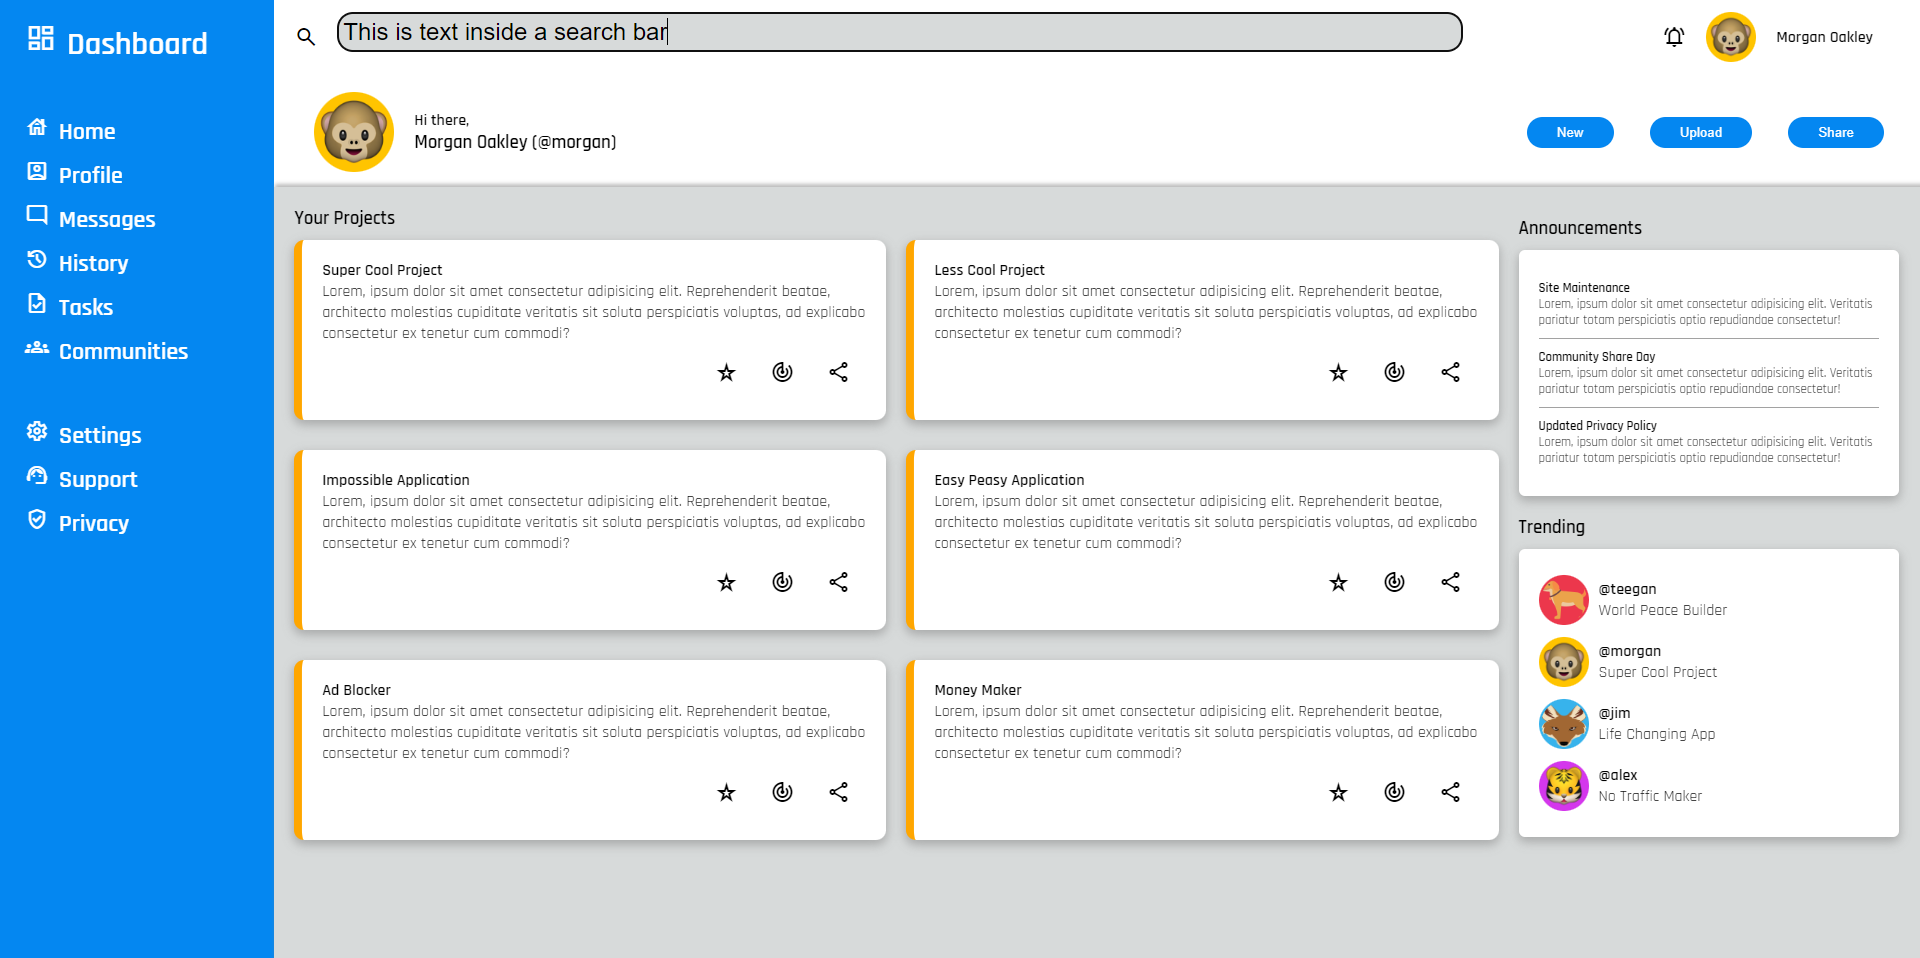
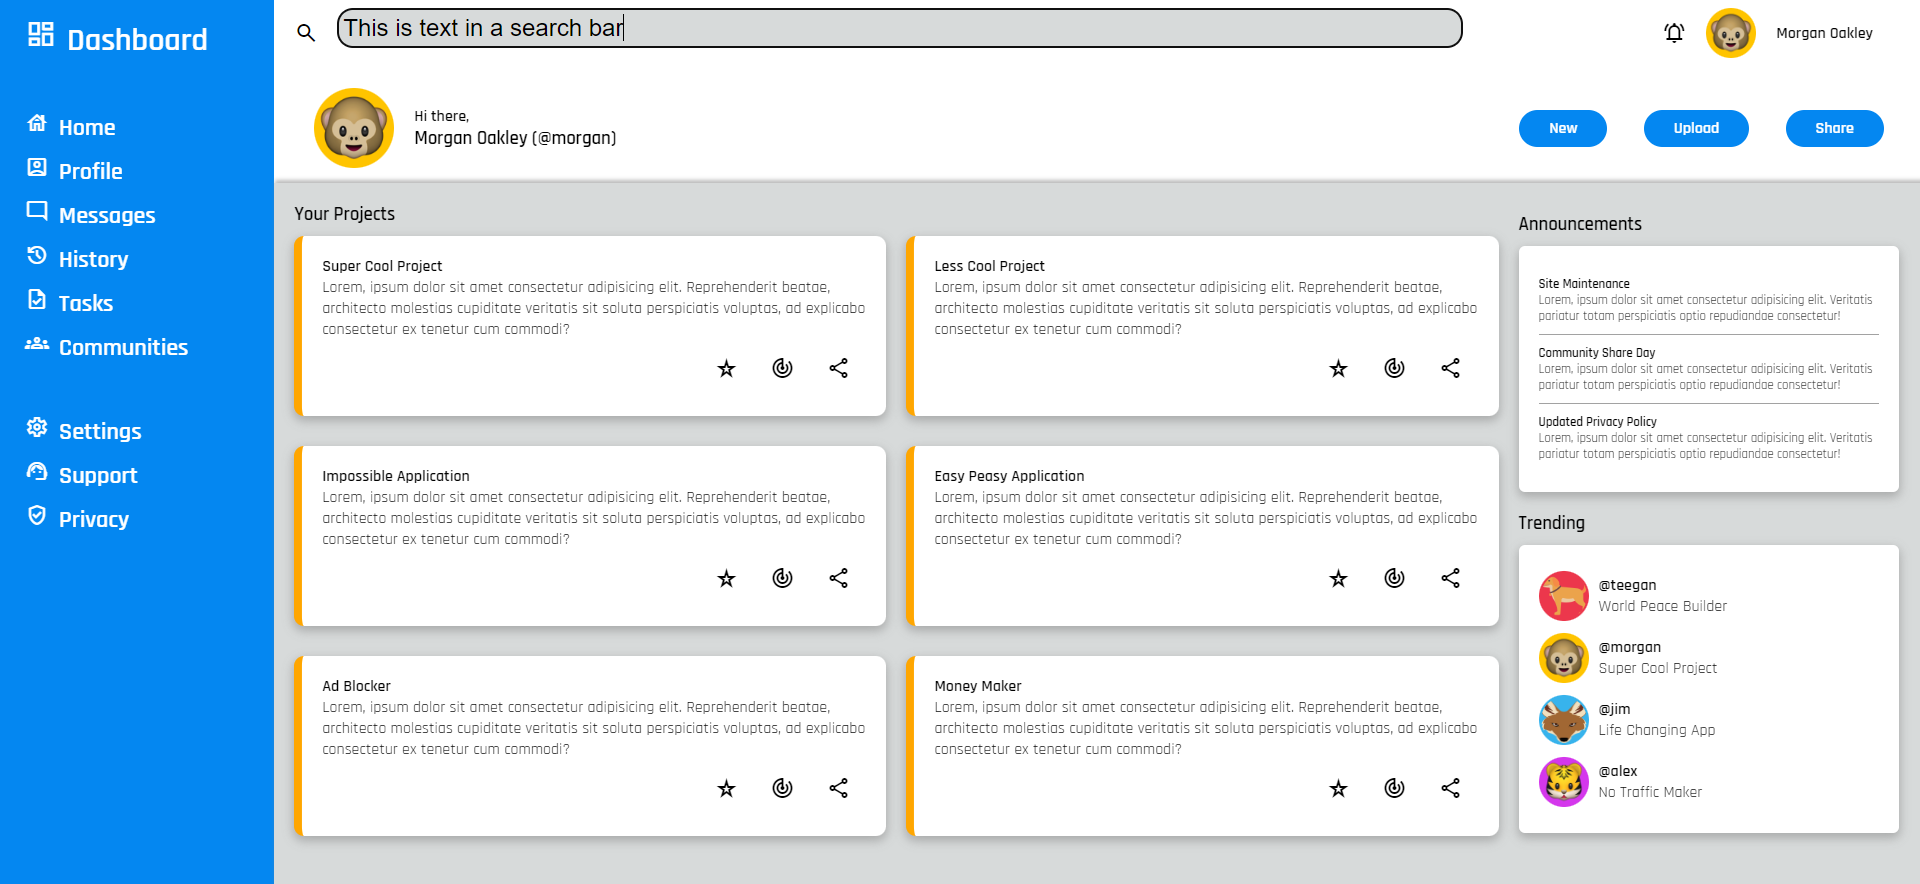
minor tweaks

diff --git a/style.css b/style.css
@@ -52,6 +52,9 @@ button {
   border: none;
   padding: 8px 30px;
   margin: 1rem;
+  font-family: 'Rajdhani', sans-serif;
+  font-size: 1rem;
+  font-weight: 700;
 }
 .search {
   width: 70%;
@@ -77,7 +80,7 @@ input {
   height: 80px;
 }
 .name {
-  font-weight: 700;
+  font-weight: 900;
 }
 
 nav {

diff --git a/README.md b/README.md
@@ -1,5 +1,6 @@
 ## :office: Admin Dashboard
-Admin Dashboard main page - responsive web design.
+Admin Dashboard Layout - responsive web design.
+<br>
 The task was to create a similar layout to the The Odin Project example (shown below) with an emphasis on Flexbox & Grid.
 #### HTML/CSS
 
